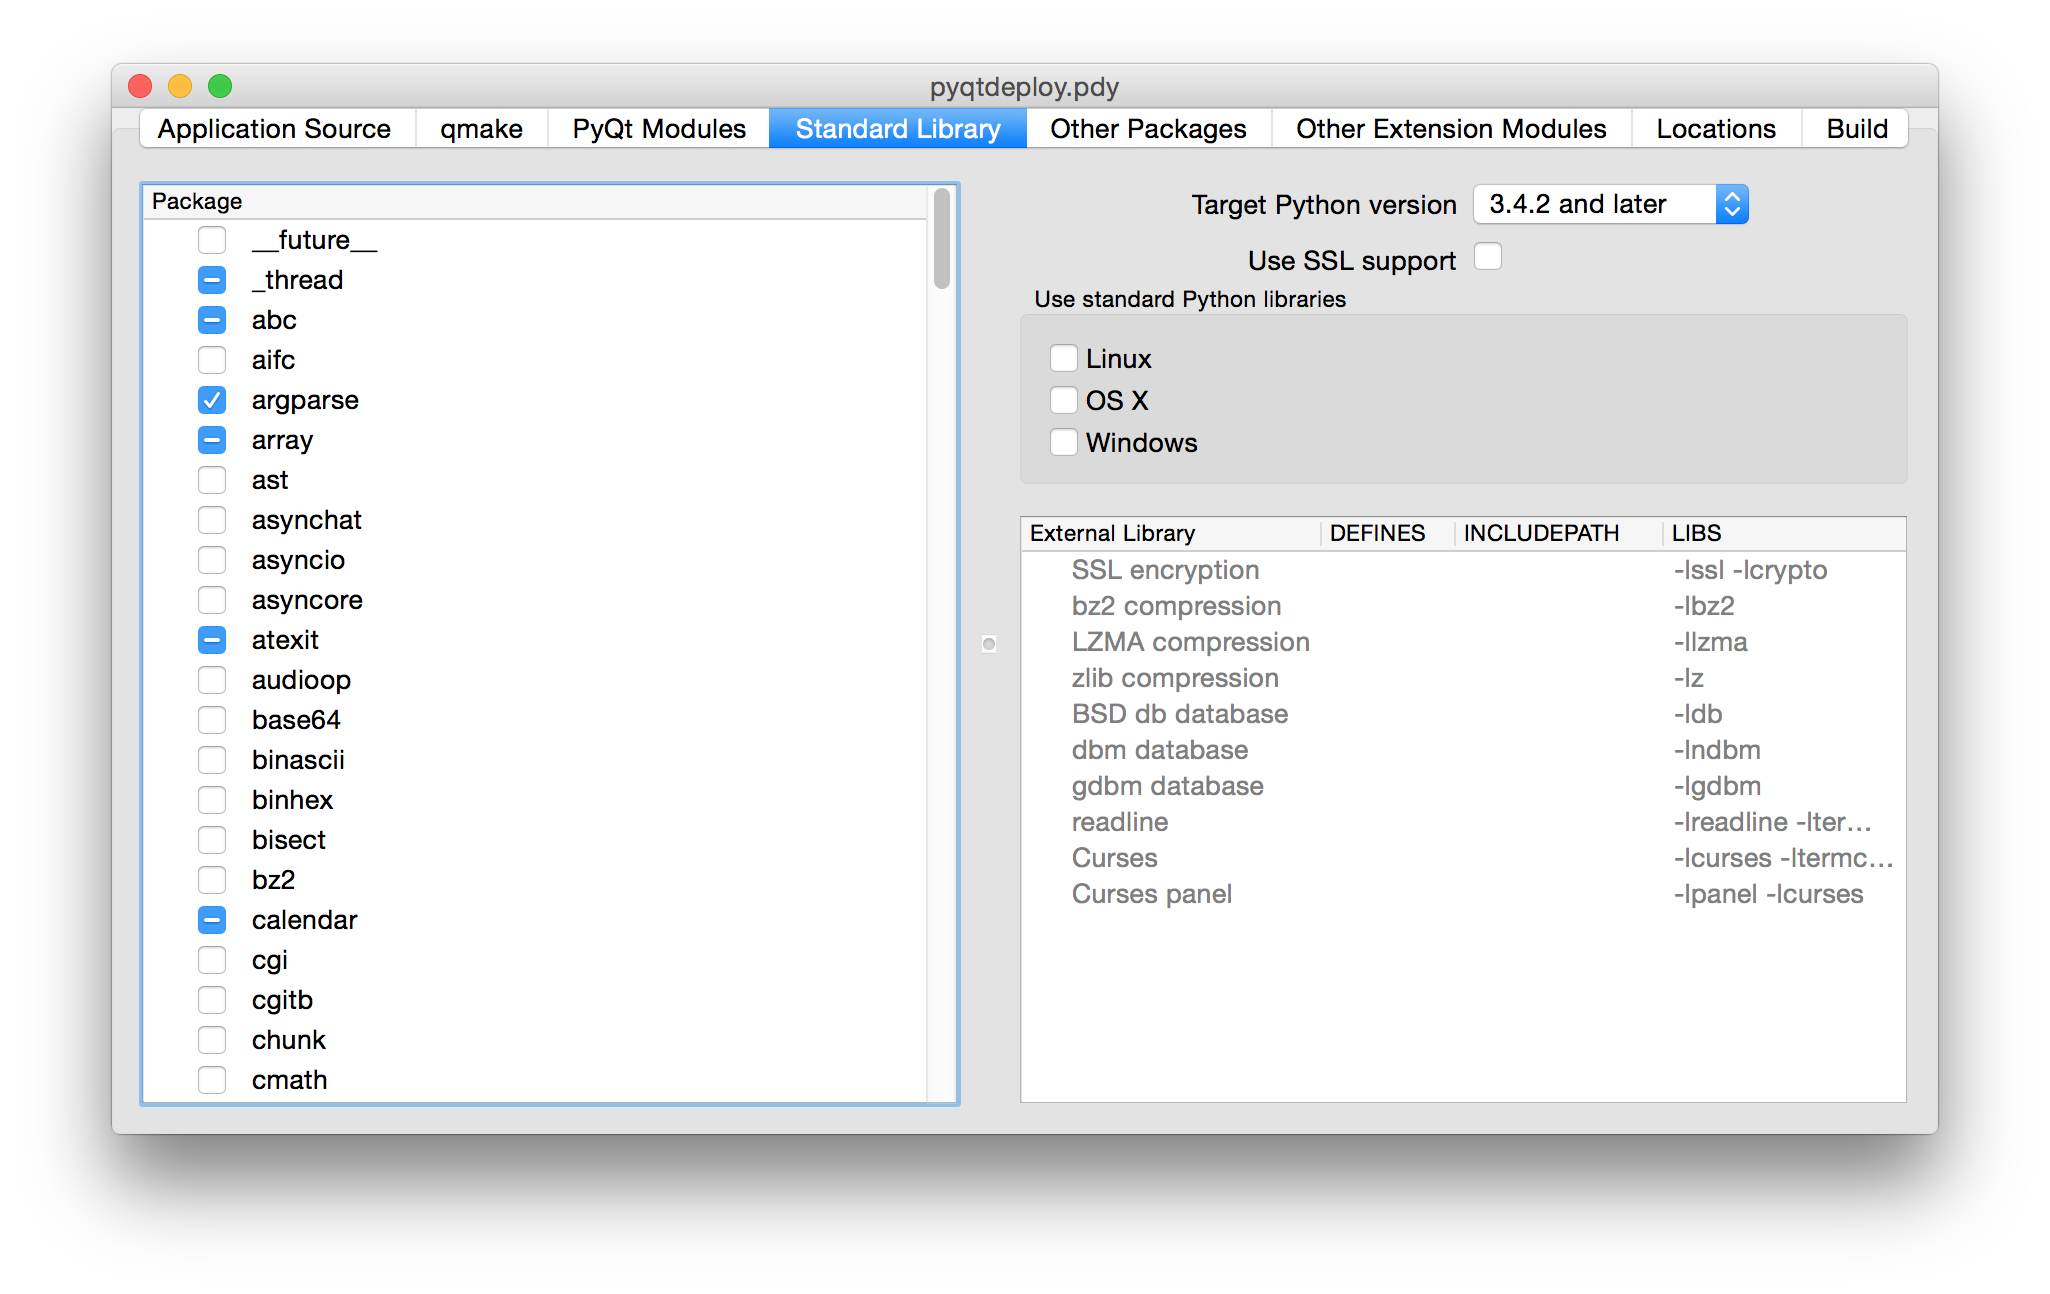
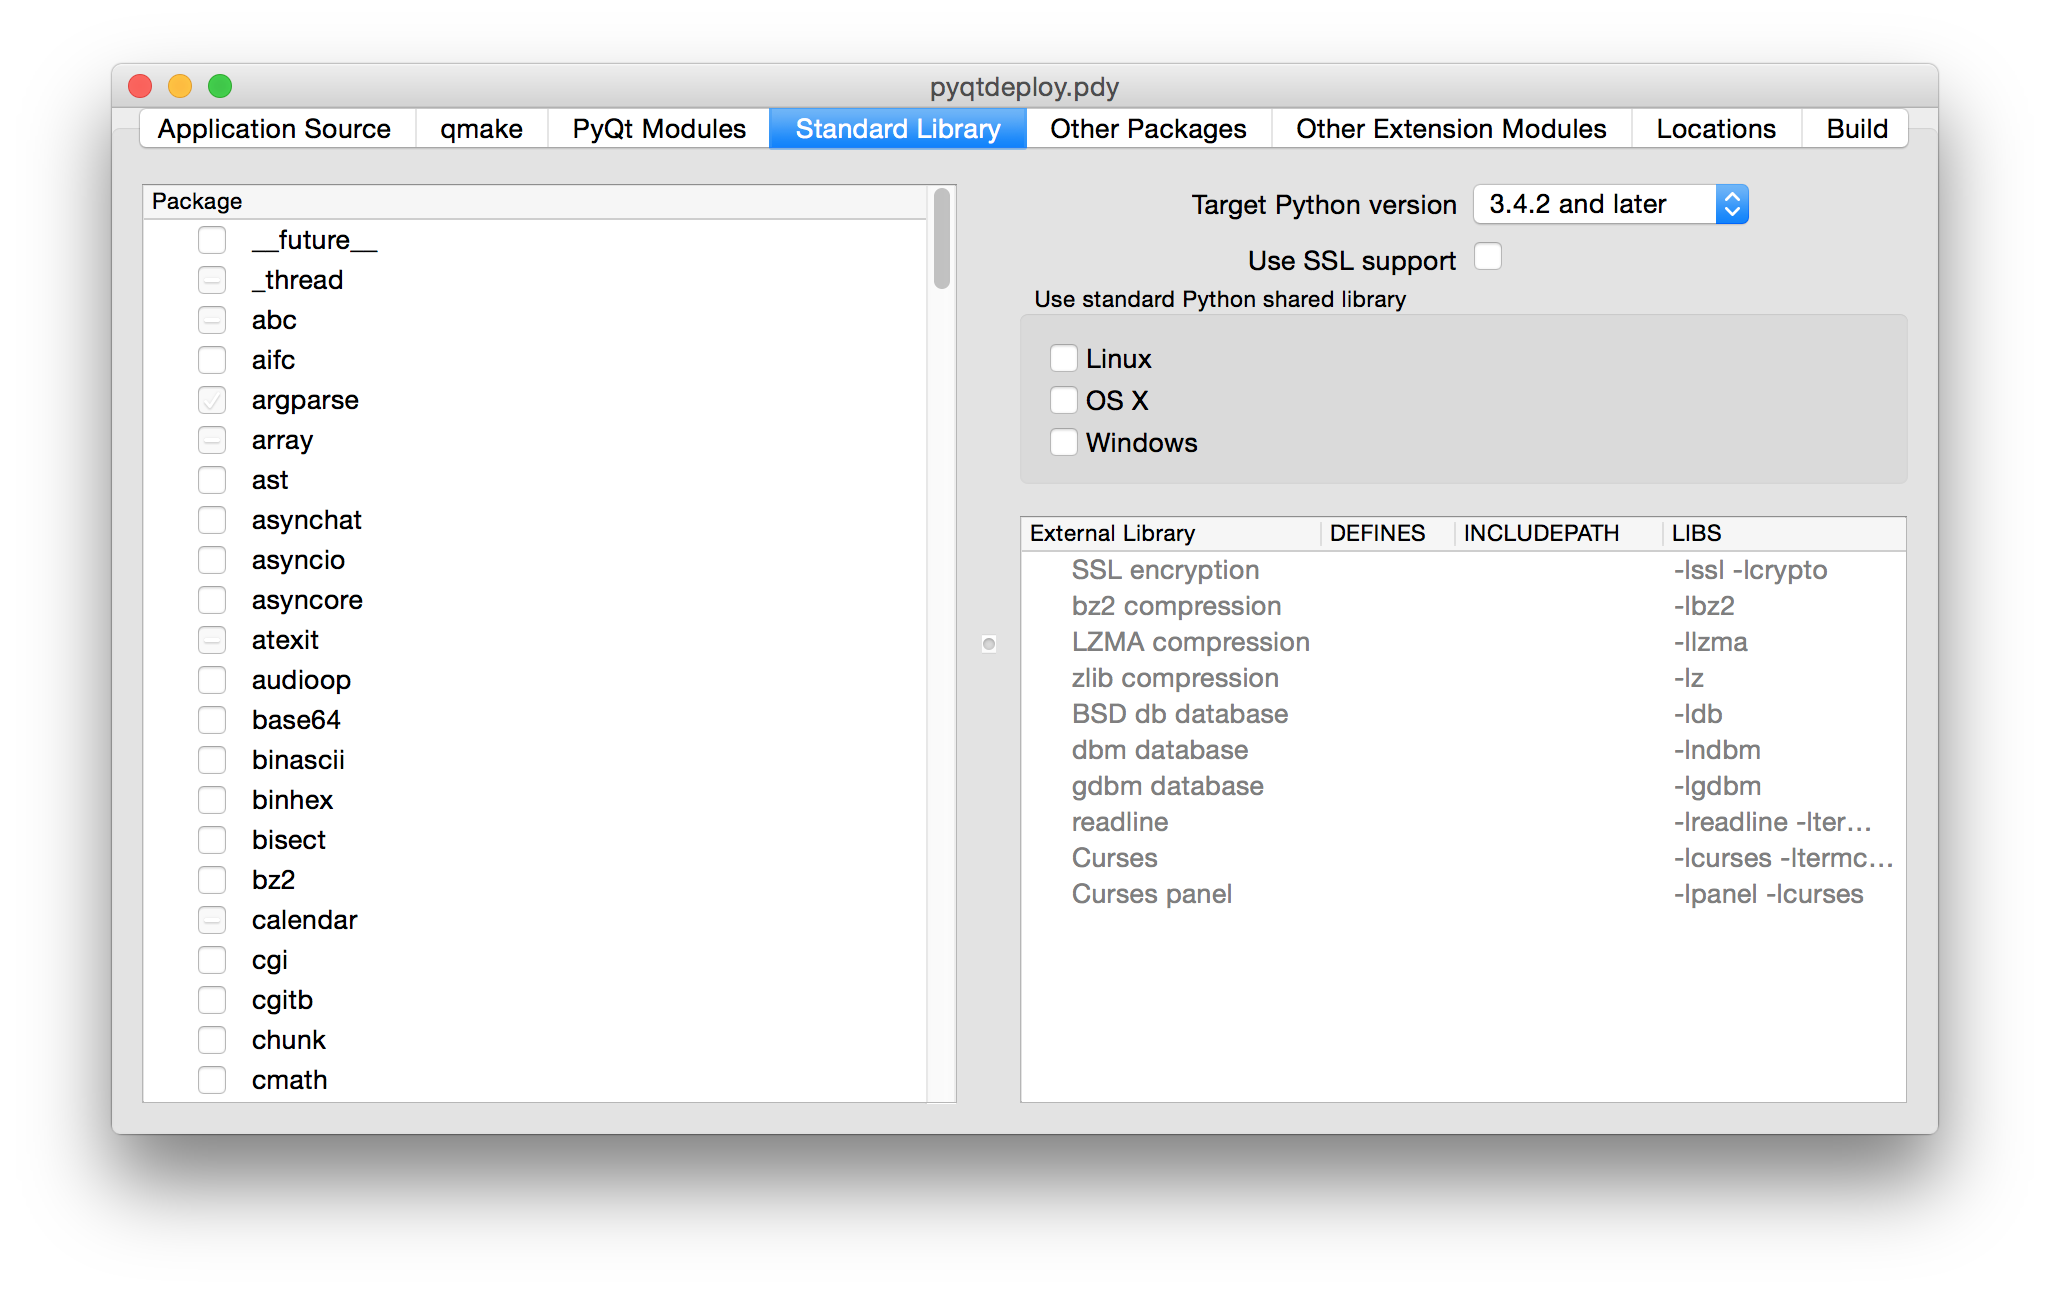
Updated the documentation.

diff --git a/pyqtdeploy/gui/standard_library_page.py b/pyqtdeploy/gui/standard_library_page.py
@@ -91,7 +91,7 @@ class StandardLibraryPage(QSplitter):
 
         extlib_layout.addLayout(extlib_sublayout)
 
-        plat_gb = QGroupBox("Use standard Python libraries")
+        plat_gb = QGroupBox("Use standard Python shared library")
         plat_gb_layout = QVBoxLayout()
         self._platform_buttons = []
 

diff --git a/doc/tutorial.rst b/doc/tutorial.rst
@@ -53,8 +53,8 @@ users.  We therefore create a symbolic link in each target-specific system root
 directory that points to the corresponding target-specific Qt installation.
 For example if you have installed the combined iOS and Android Qt binary
 installer in its default location then the iOS Qt directory will be
-``$HOME/QtX.Y.X/X.Y/ios`` and the Android Qt directory will be
-``$HOME/QtX.Y.X/X.Y/android_arm7`` (where ``X.Y.Z`` is the version number of
+``$HOME/QtX.Y.Z/X.Y/ios`` and the Android Qt directory will be
+``$HOME/QtX.Y.Z/X.Y/android_arm7`` (where ``X.Y.Z`` is the version number of
 Qt).
 
 This approach can be extended further by creating a symbolic link to the target
@@ -66,7 +66,8 @@ change and it will take effect in all terminals - otherwise you need to
 remember to update the environment variable in each of your terminals.
 
 Throughout this documentation it is assumed that you have set an environment
-variable :envvar:`SYSROOT` which points to your target specific root directory.
+variable :envvar:`SYSROOT` which points to your target specific root directory
+(possibly via a symbolic link).
 
 
 Scoped :program:`qmake` Variables
@@ -89,7 +90,7 @@ For example, lets say that your application is targeted at all supported
 desktop targets and requires SSL support.  On Windows you want to link against
 a copy of the OpenSSL libraries that you have statically compiled and installed
 the header files and libraries in the ``include`` and ``lib`` sub-directories
-of the :envvar:`SYSROOT` directory.  On Linux and OS/X you want to dynamically
+of the :envvar:`SYSROOT` directory.  On Linux and OS X you want to dynamically
 link against the system SSL libraries.  Setting the ``INCLUDEPATH`` and
 ``LIBS`` variables to the following values will ensure that the generated code
 will compile as you require on all platforms::
@@ -208,7 +209,7 @@ The tab for defining the application source is shown below.
     module must be installed as ``foo.baz.so`` (or ``foo.baz.pyd``) in the same
     directory as the application executable.
 
-    On OS/X an extension module will also be searched for in the ``PlugIns``
+    On OS X an extension module will also be searched for in the ``PlugIns``
     and ``Frameworks`` sub-directories of the directory containing the
     application executable.
 
@@ -235,9 +236,9 @@ The tab for defining the application source is shown below.
     applications to ensure that tracebacks (e.g. about missing modules) are
     captured and displayed.
 
-**Application bundle (OS/X)**
+**Application bundle (OS X)**
     is checked if the application should be built as a bundle and only affects
-    OS/X applications.  It would normally be unchecked for command line (i.e.
+    OS X applications.  It would normally be unchecked for command line (i.e.
     non-GUI) applications.
 
 **Application Package Directory**
@@ -283,6 +284,19 @@ The tab for defining the application source is shown below.
     last entry.
 
 
+Additional :program:`qmake` Configuration
+-----------------------------------------
+
+The tab for defining additional :program:`qmake` configuration information is
+shown below.
+
+.. image:: /images/qmake_tab.png
+    :align: center
+
+Any text entered here is added to the end of the ``.pro`` file generated by
+:program:`pyqtdeploy`.
+
+
 Defining the PyQt Modules
 -------------------------
 
@@ -324,6 +338,13 @@ application is shown below.
     Several packages in the Python standard library will enable SSL related
     functionality if it is available - even if your application doesn't itself
     import the :mod:`ssl` module.
+
+**Use standard Python shared library**
+    is used to specify, on a per-platform basis, if the standard Python shared
+    library is to be used instead of a specially compiled shared or static
+    library.  When selected :program:`pyqtdeploy` assumes that all of the
+    Python standard library that is implemented as C extension modules is
+    implemented in the shared library.
 
 The main part of the tab contains all of the packages contained in the target
 Python version's standard library.  Simply check those packages that the

diff --git a/doc/static_builds.rst b/doc/static_builds.rst
@@ -86,6 +86,13 @@ Assuming your compiler is MSVC 2010 then you need to edit the file
 Python
 ------
 
+On Windows a static version of Python cannot dynamically import C/C++
+extension modules.  Therefore, if you need this functionality (perhaps because
+you need to use extension modules that cannot be built statically), you must
+use a dynamic build of Python.  If so then it is recommended that you use the
+Python DLL installed by the appropriate standard Windows binary package from
+``python.org``.
+
 To build a static version of Python, change to the Python source directory and
 run::
 

diff --git a/doc/introduction.rst b/doc/introduction.rst
@@ -4,7 +4,7 @@ What is :program:`pyqtdeploy`?
 :program:`pyqtdeploy` is a tool that, in conjunction with other tools provided
 with Qt, enables the deployment of PyQt4 and PyQt5 applications written with
 Python v2.7 or Python v3.3 or later.  It supports deployment to desktop
-platforms (Linux, Windows and OS/X) and to mobile platforms (iOS and Android).
+platforms (Linux, Windows and OS X) and to mobile platforms (iOS and Android).
 
 Normally you would create statically compiled versions of the Python
 interpreter library, any third party extension modules, PyQt and Qt.  This way
